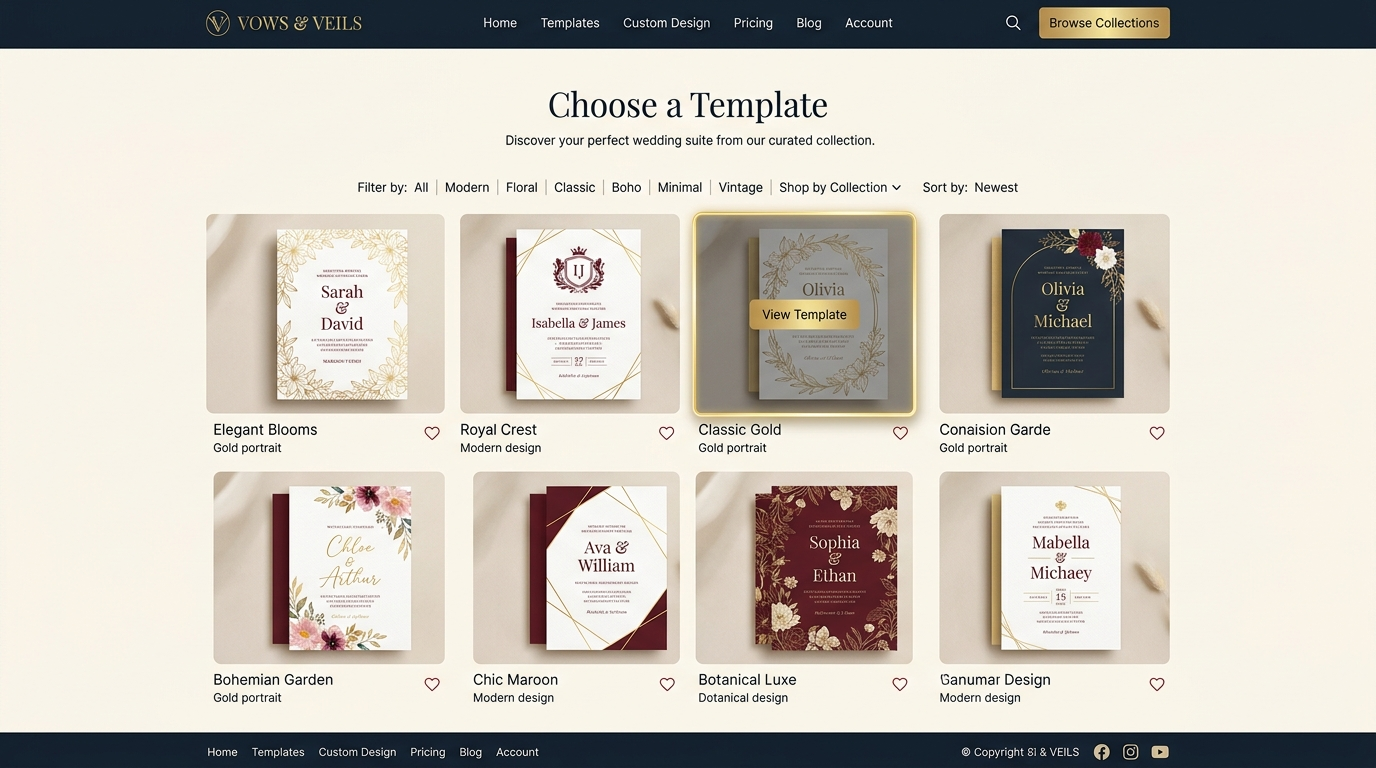
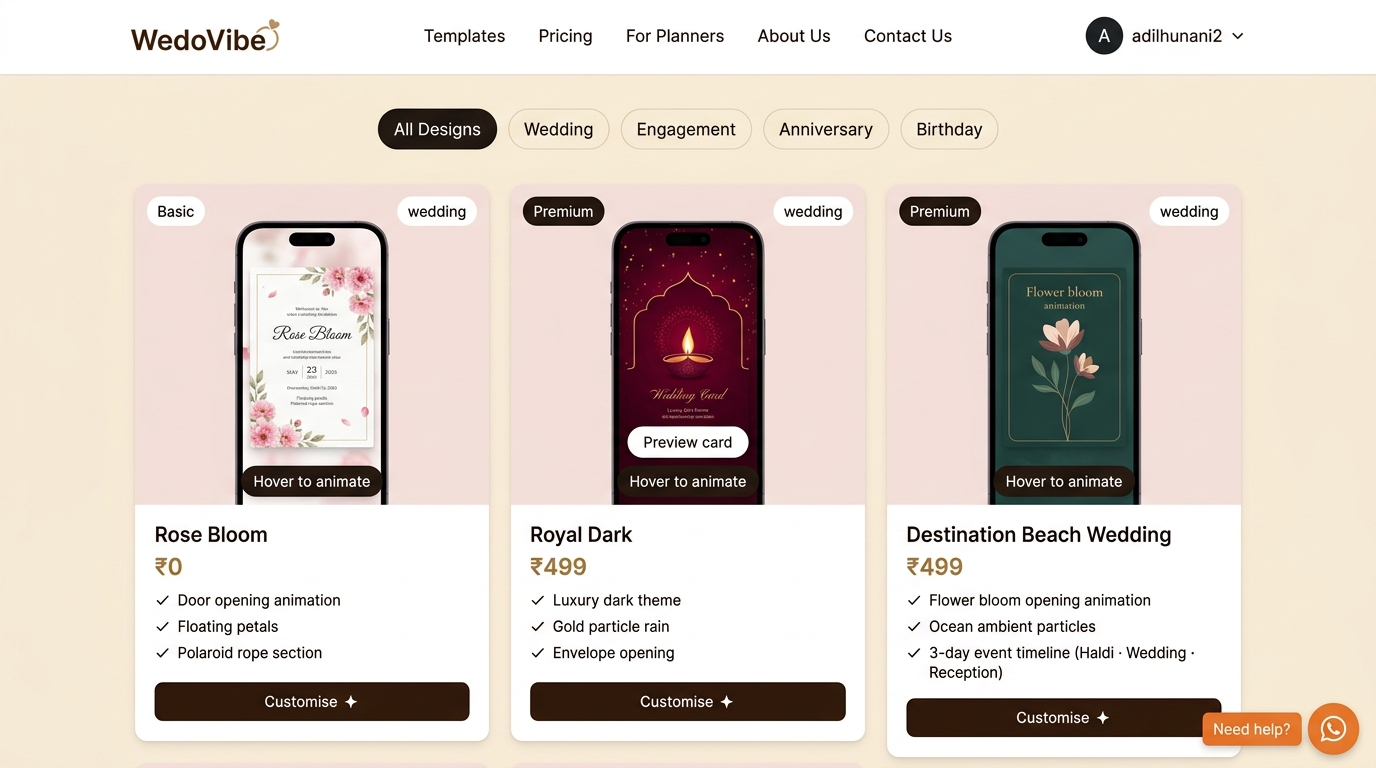
Update How It Works page with real screenshots and WhatsApp CTA

diff --git a/app/how-it-works/page.tsx b/app/how-it-works/page.tsx
@@ -16,7 +16,7 @@ const steps = [
     description:
       "Explore our collection of premium animated wedding invitation templates — from classic floral to modern geometric. Each template is crafted by professional designers and fully animated. Filter by style, colour palette, or occasion (wedding, engagement, reception) to find your perfect match.",
     highlights: ['6+ premium animated templates', 'Filter by style & occasion', 'Free preview before you buy'],
-    image: '/hiw-step1.jpg',
+    image: '/hiw-step1.png',
     imageAlt: 'WedVibe template gallery showing animated wedding card options',
     accent: 'from-gold/10 to-gold/5',
     badgeColor: 'bg-gold/10 text-[#8b6914] border-gold/30',
@@ -29,7 +29,7 @@ const steps = [
     description:
       'Our live editor lets you customise every detail in real-time — see changes instantly on the preview. Add bride & groom names, wedding date, venue, a personal message, and even your couple photo. The card updates live as you type, making it feel truly yours.',
     highlights: ['Live real-time preview', 'Add couple photo & names', 'Custom message & venue details'],
-    image: '/hiw-step2.jpg',
+    image: '/hiw-step2.png',
     imageAlt: 'WedVibe customization editor with live preview of wedding card',
     accent: 'from-maroon/5 to-maroon/10',
     badgeColor: 'bg-maroon/10 text-maroon border-maroon/20',
@@ -42,7 +42,7 @@ const steps = [
     description:
       "Once your card is perfect, pay securely via UPI, credit/debit card or net banking. You'll instantly get a shareable link to your animated wedding card. Share directly on WhatsApp, copy the link, or even embed it. Your guests will be amazed when they open it!",
     highlights: ['Instant shareable link', 'WhatsApp & social sharing', 'Secure UPI & card payment'],
-    image: '/hiw-step3.jpg',
+    image: '/hiw-step3.png',
     imageAlt: 'WedVibe sharing page with WhatsApp share button and card preview',
     accent: 'from-gold/10 to-gold/5',
     badgeColor: 'bg-gold/10 text-[#8b6914] border-gold/30',
@@ -271,6 +271,9 @@ export default function HowItWorksPage() {
                 View Plans
               </Link>
             </div>
+            <p className="mt-8 text-white/80 text-sm">
+              Prefer we do it? Click on the WhatsApp icon if you want us to make the card for you.
+            </p>
           </div>
         </div>
       </section>
